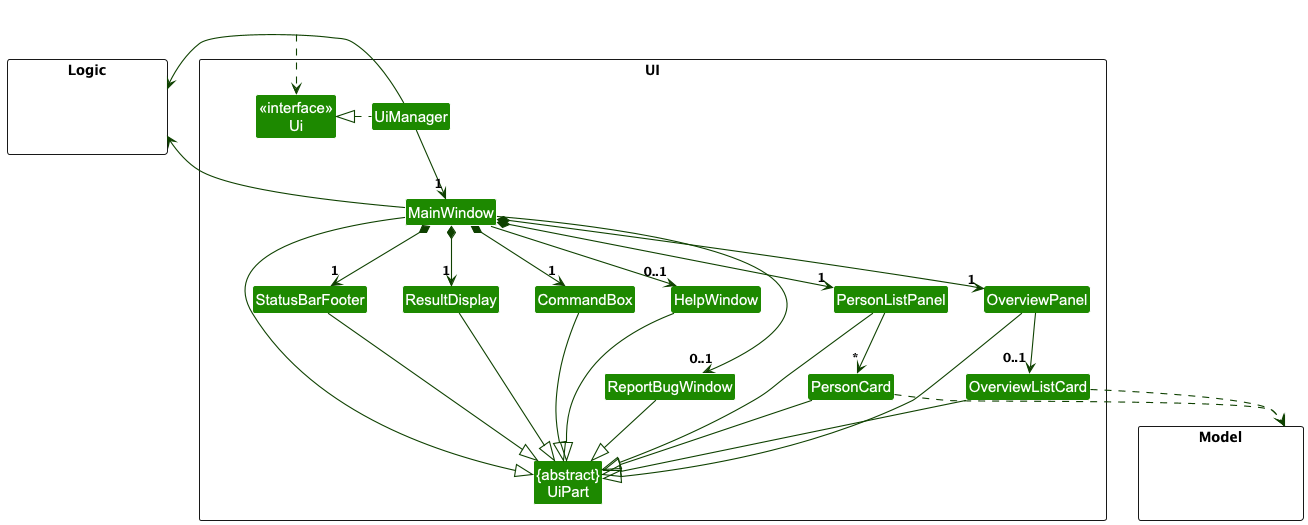
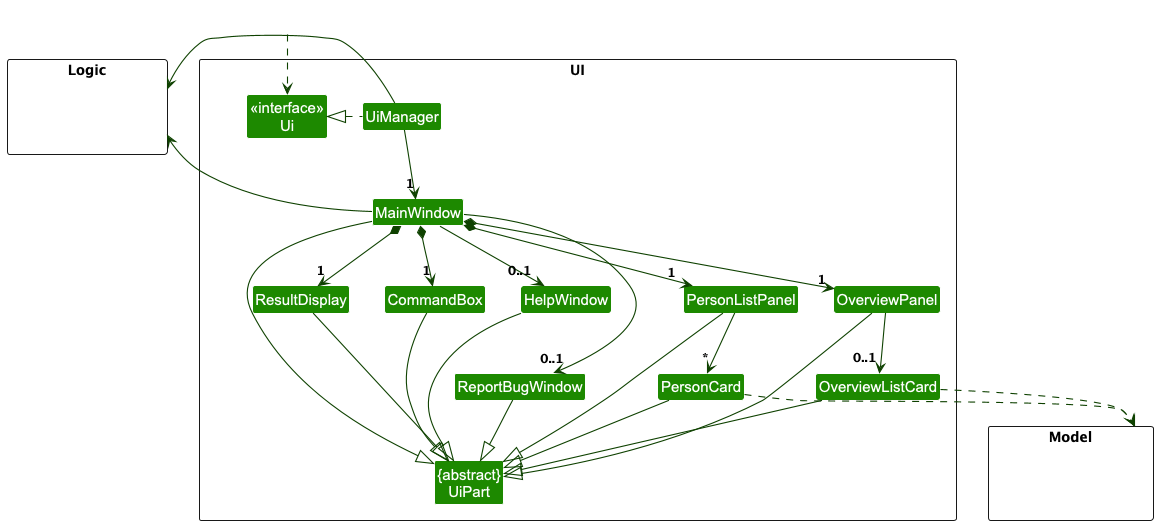
Update UiClassDiagram

diff --git a/docs/DeveloperGuide.md b/docs/DeveloperGuide.md
@@ -165,7 +165,6 @@ The UI consists of a `MainWindow` that is made up of the following parts:
 - `PersonListPanel`
   - `PersonCard`
 - `CommandBox`
-- `StatusBarFooter` 
 
 All these, including the `MainWindow`, inherit from the abstract `UiPart` class which captures the commonalities between classes that represent parts of the visible GUI.
 
@@ -652,7 +651,7 @@ The CommandResult object is then passed to the UI, which opens a panel displayin
 
 Our primary target users are Recruiters and HR professionals who are responsible for managing job candidates and employee information in mid-size companies.
 
-**Value proposition**: 
+**Value proposition**:
 
 Simplify and enhance the recruitment process for HR professionals and recruiters.
 
